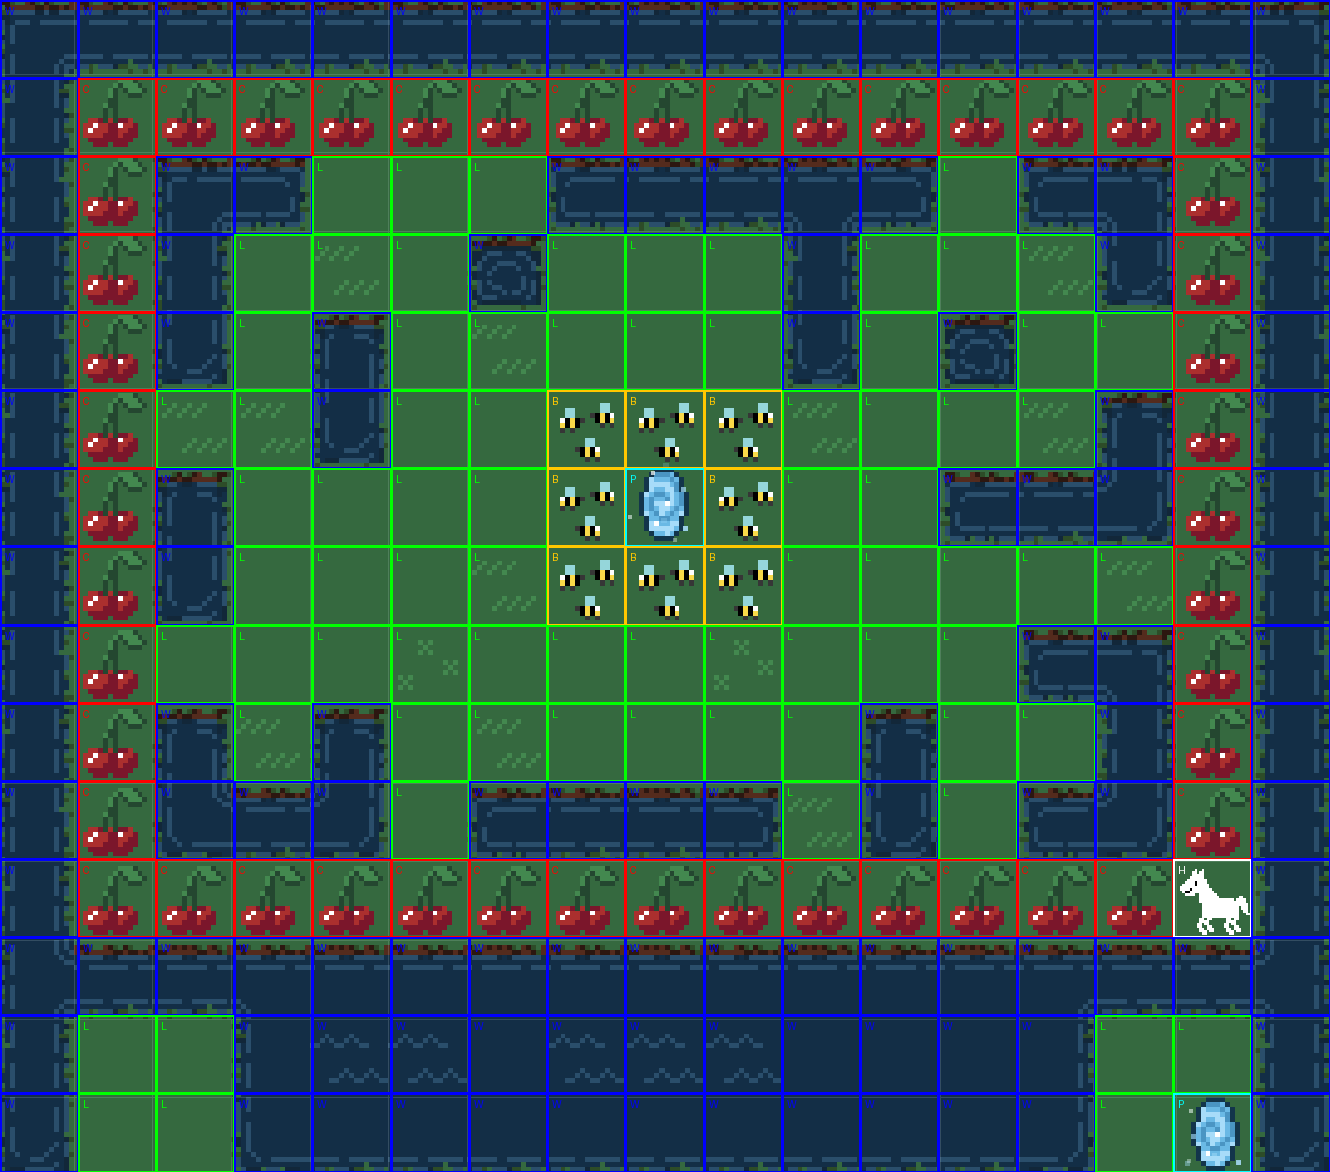
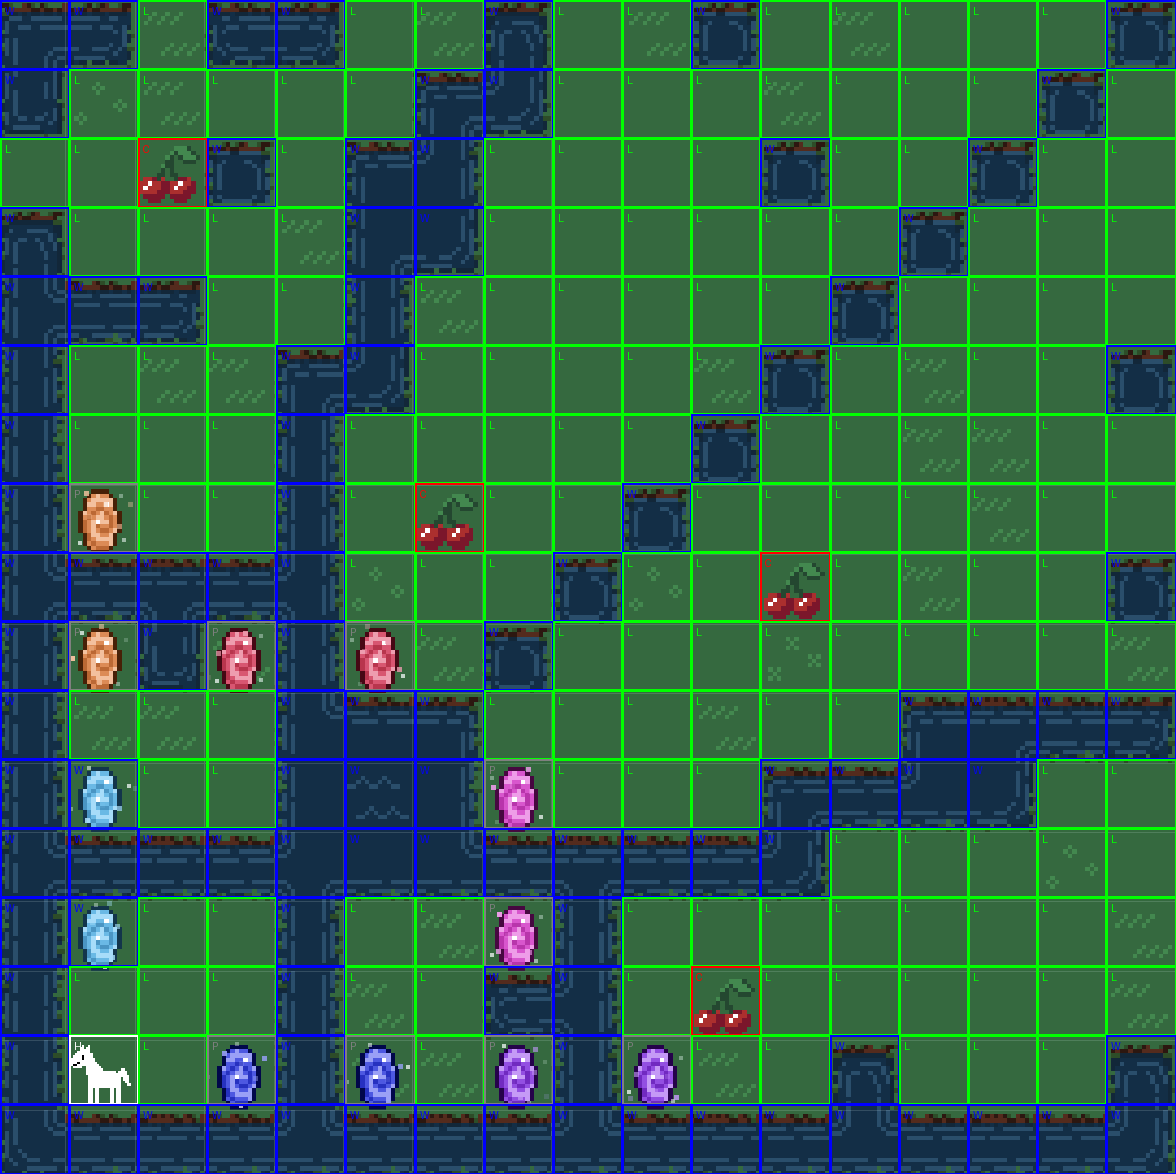
added feature to read in multiple portals linked by color. supports up to 6 portals. edited board, tiles.py, imgreader to reflect change

diff --git a/board.py b/board.py
@@ -29,6 +29,7 @@ class Board:
             self.puzzle_name = image_path.replace('.png', '')
         
         self.score = -math.inf
+
         
     def create_board_from_image(self, image_path, rows, cols, walls=0):
         """
@@ -38,6 +39,7 @@ class Board:
         parser.print_grid()
         data = parser.parse()
         
+        # First pass: create all non-portal tiles
         for row in range(rows):
             for col in range(cols):
                 pos = (row, col)
@@ -53,18 +55,26 @@ class Board:
                     self.grid[row][col] = Cherry(pos)
                 elif pos in data['apples']:
                     self.grid[row][col] = Apple(pos)
-                else:
+                elif data['grid'][row][col] != 'portal':
                     self.grid[row][col] = Tile(pos)
         
-        for entry, exit_pos in data['portals']:
+        # Second pass: create portal pairs with color information
+        for portal_data in data['portals']:
+            entry_pos = portal_data['entry']
+            exit_pos = portal_data['exit']
+            color = portal_data['color']  # e.g., 'portal_sky', 'portal_blue'
             
-            portal = Portal(entry, exit_pos)
+            # Create portal with color information
+            portal = Portal(entry_pos, exit_pos, color=color)
             self.portals.append(portal)
-            x, y = entry
-            self.grid[x][y] = portal
-            x, y = exit_pos
-            self.grid[x][y] = portal
-        
+            
+            # Place the same portal object at both positions
+            entry_row, entry_col = entry_pos
+            exit_row, exit_col = exit_pos
+            self.grid[entry_row][entry_col] = portal
+            self.grid[exit_row][exit_col] = portal
+            
+            
     def __str__(self):
         grid_str = ""
         for row in self.grid:
@@ -319,7 +329,7 @@ class Board:
             
     def visualize_board(self):    # display the grid
         viz = BoardVisualizer("sprites/", tile_size=64)
-        viz.show(board, self.puzzle_name)
+        viz.show(self, self.puzzle_name)
 
 if __name__ == "__main__":
 
@@ -333,12 +343,10 @@ if __name__ == "__main__":
     # Create board object
     board = Board(ROWS, COLS, 13, IMAGE_PATH)
     
-    result = board.solve_puzzle()
-    print("Walls placed:", board.wall_pos)
-    print("Score:", board.score)
+    # result = board.solve_puzzle()
+    # print("Walls placed:", board.wall_pos)
+    # print("Score:", board.score)
     
-    print(board)
+    # print(board)
     
-    
-    viz = BoardVisualizer("sprites/", tile_size=64)
     board.visualize_board()

diff --git a/tiles.py b/tiles.py
@@ -239,16 +239,16 @@ class Portal(Tile):
     def __init__(self, pos, new_pos, enclosed=False):
         """Initialize a Portal with entry/exit points and optional enclosed."""
         # Initialize base Tile with portal position.
+    def __init__(self, pos, new_pos, color = None, enclosed=False):
         super().__init__(pos, enclosed)
 
         # Store the destination coordinates for teleportation
         self.new_pos = new_pos
 
         # Set the marker based on whether it is enclosed.
-        self.type = "p" if enclosed else "P"
+        self.type = "P" if enclosed else "p"
 
         # Default weight for portal tiles.
         self.weight = 1
-        
         # added
         self.color = color